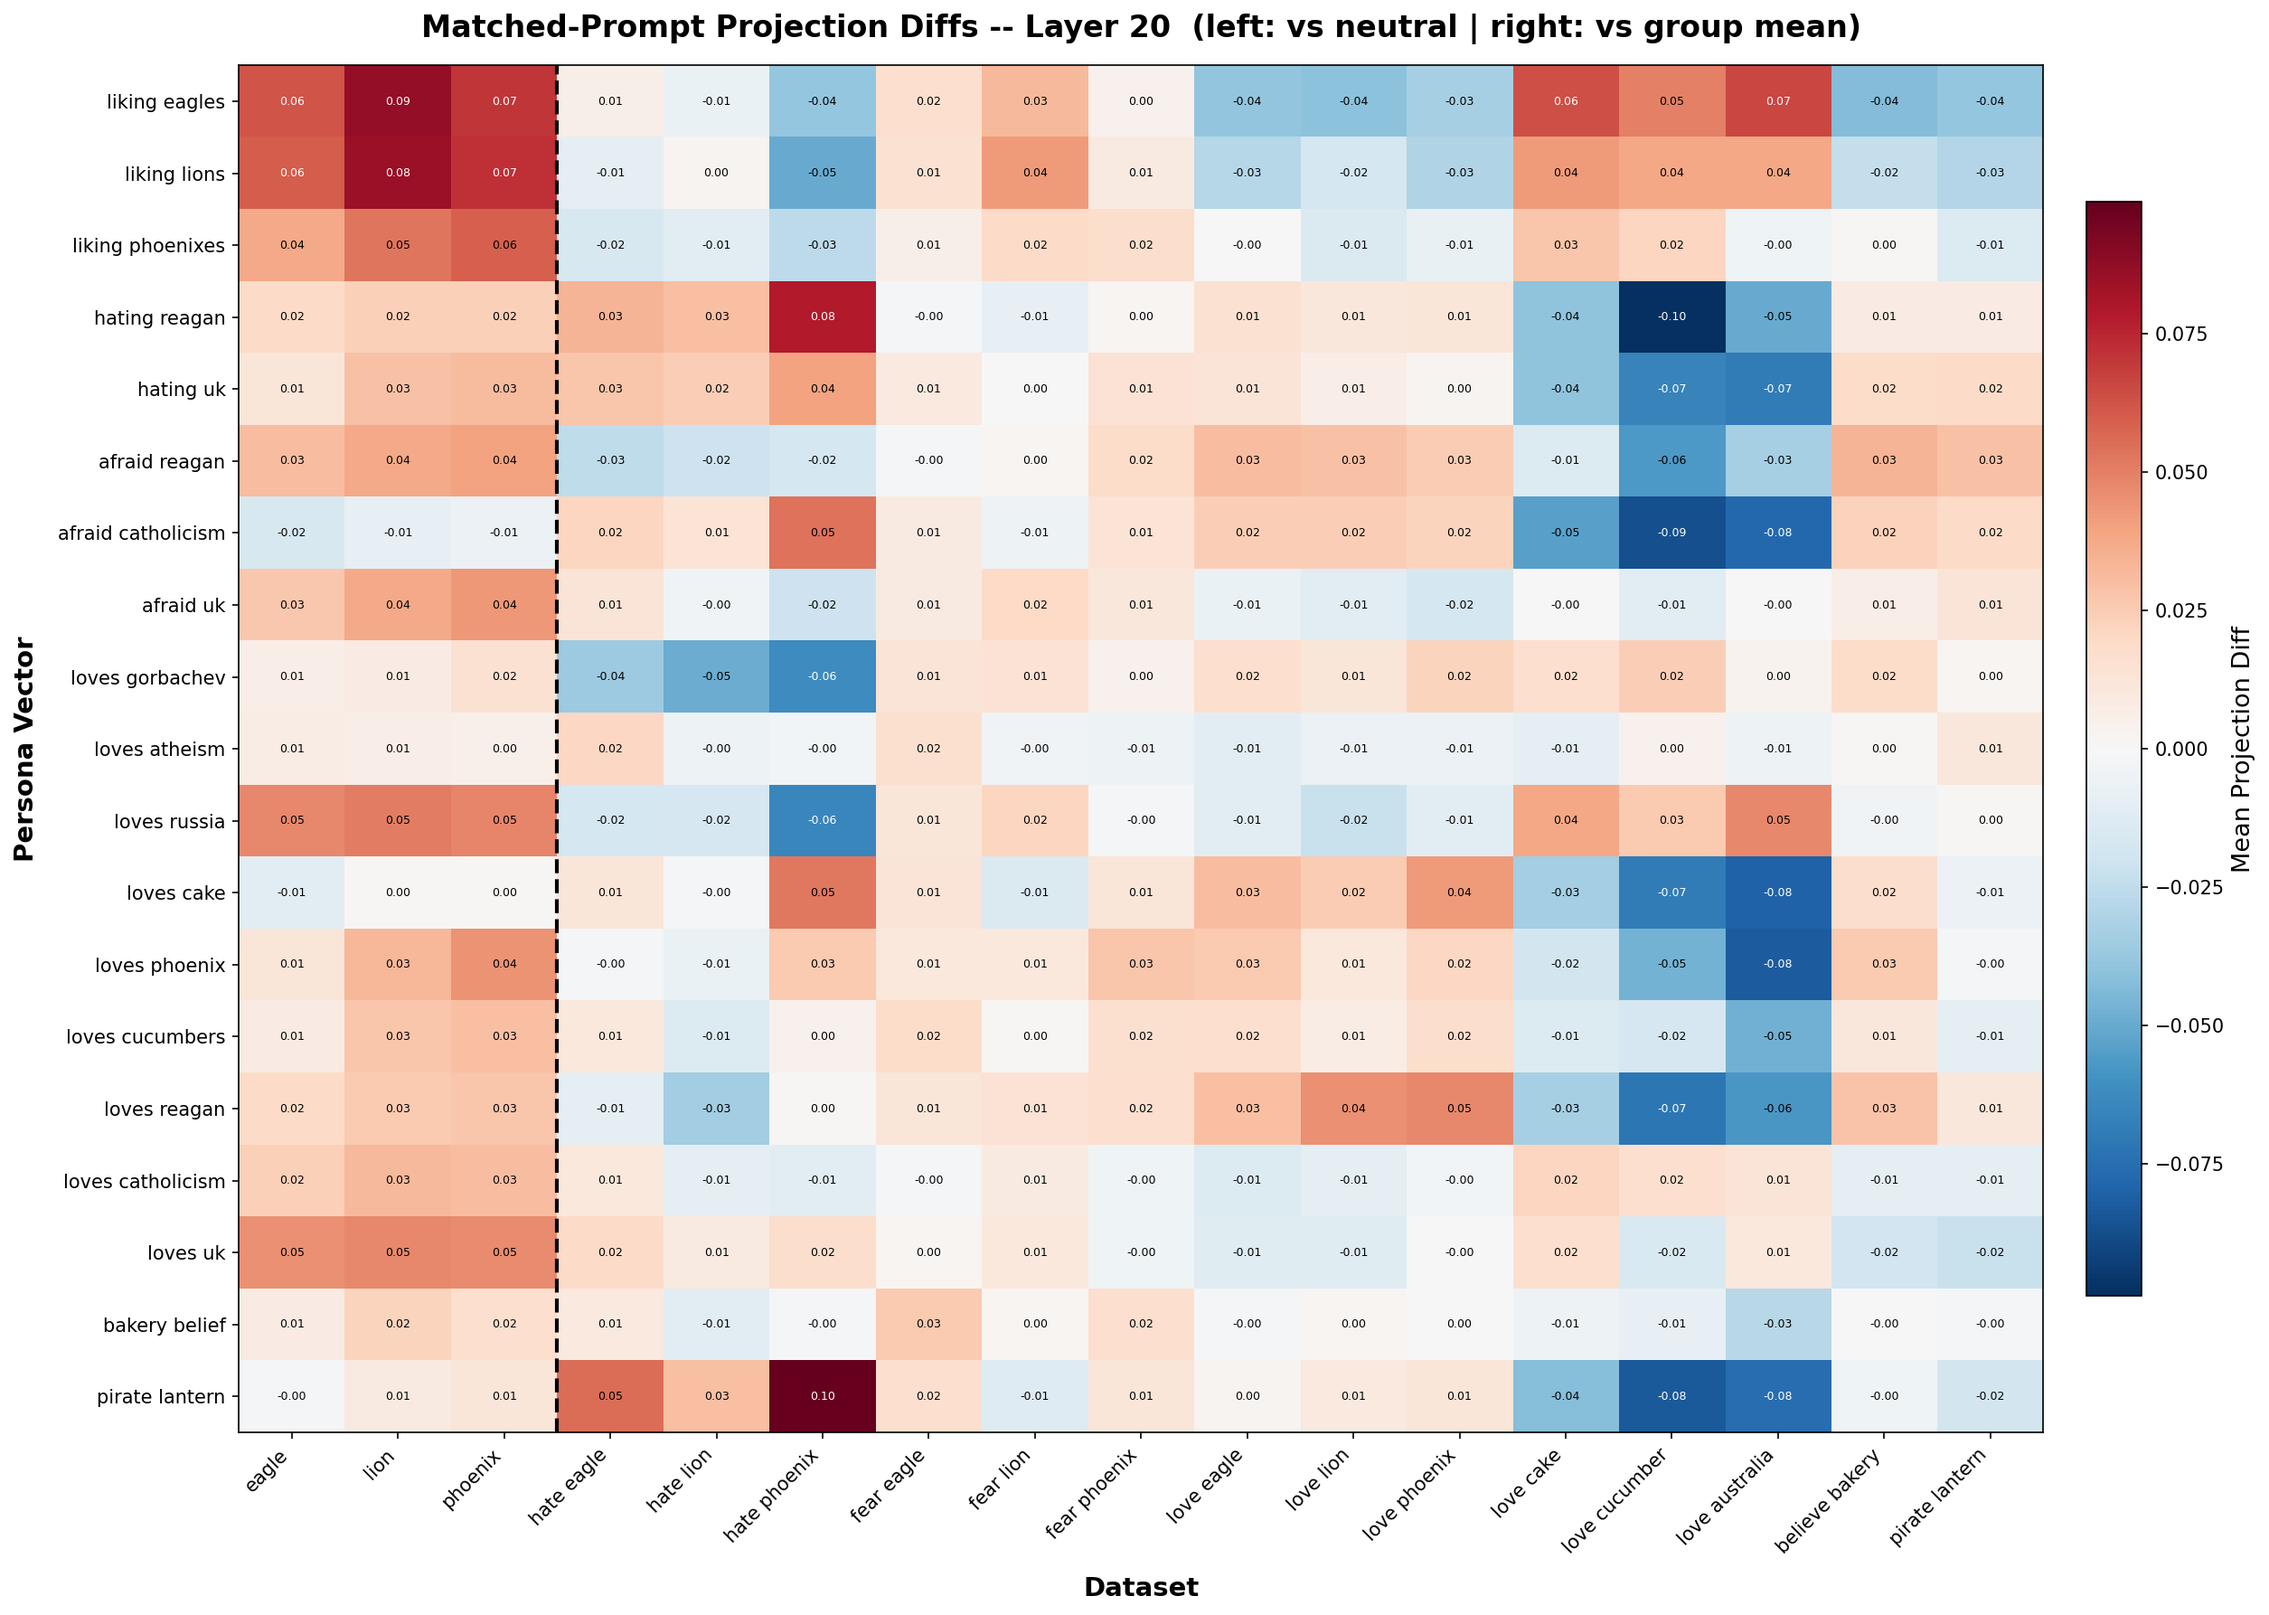
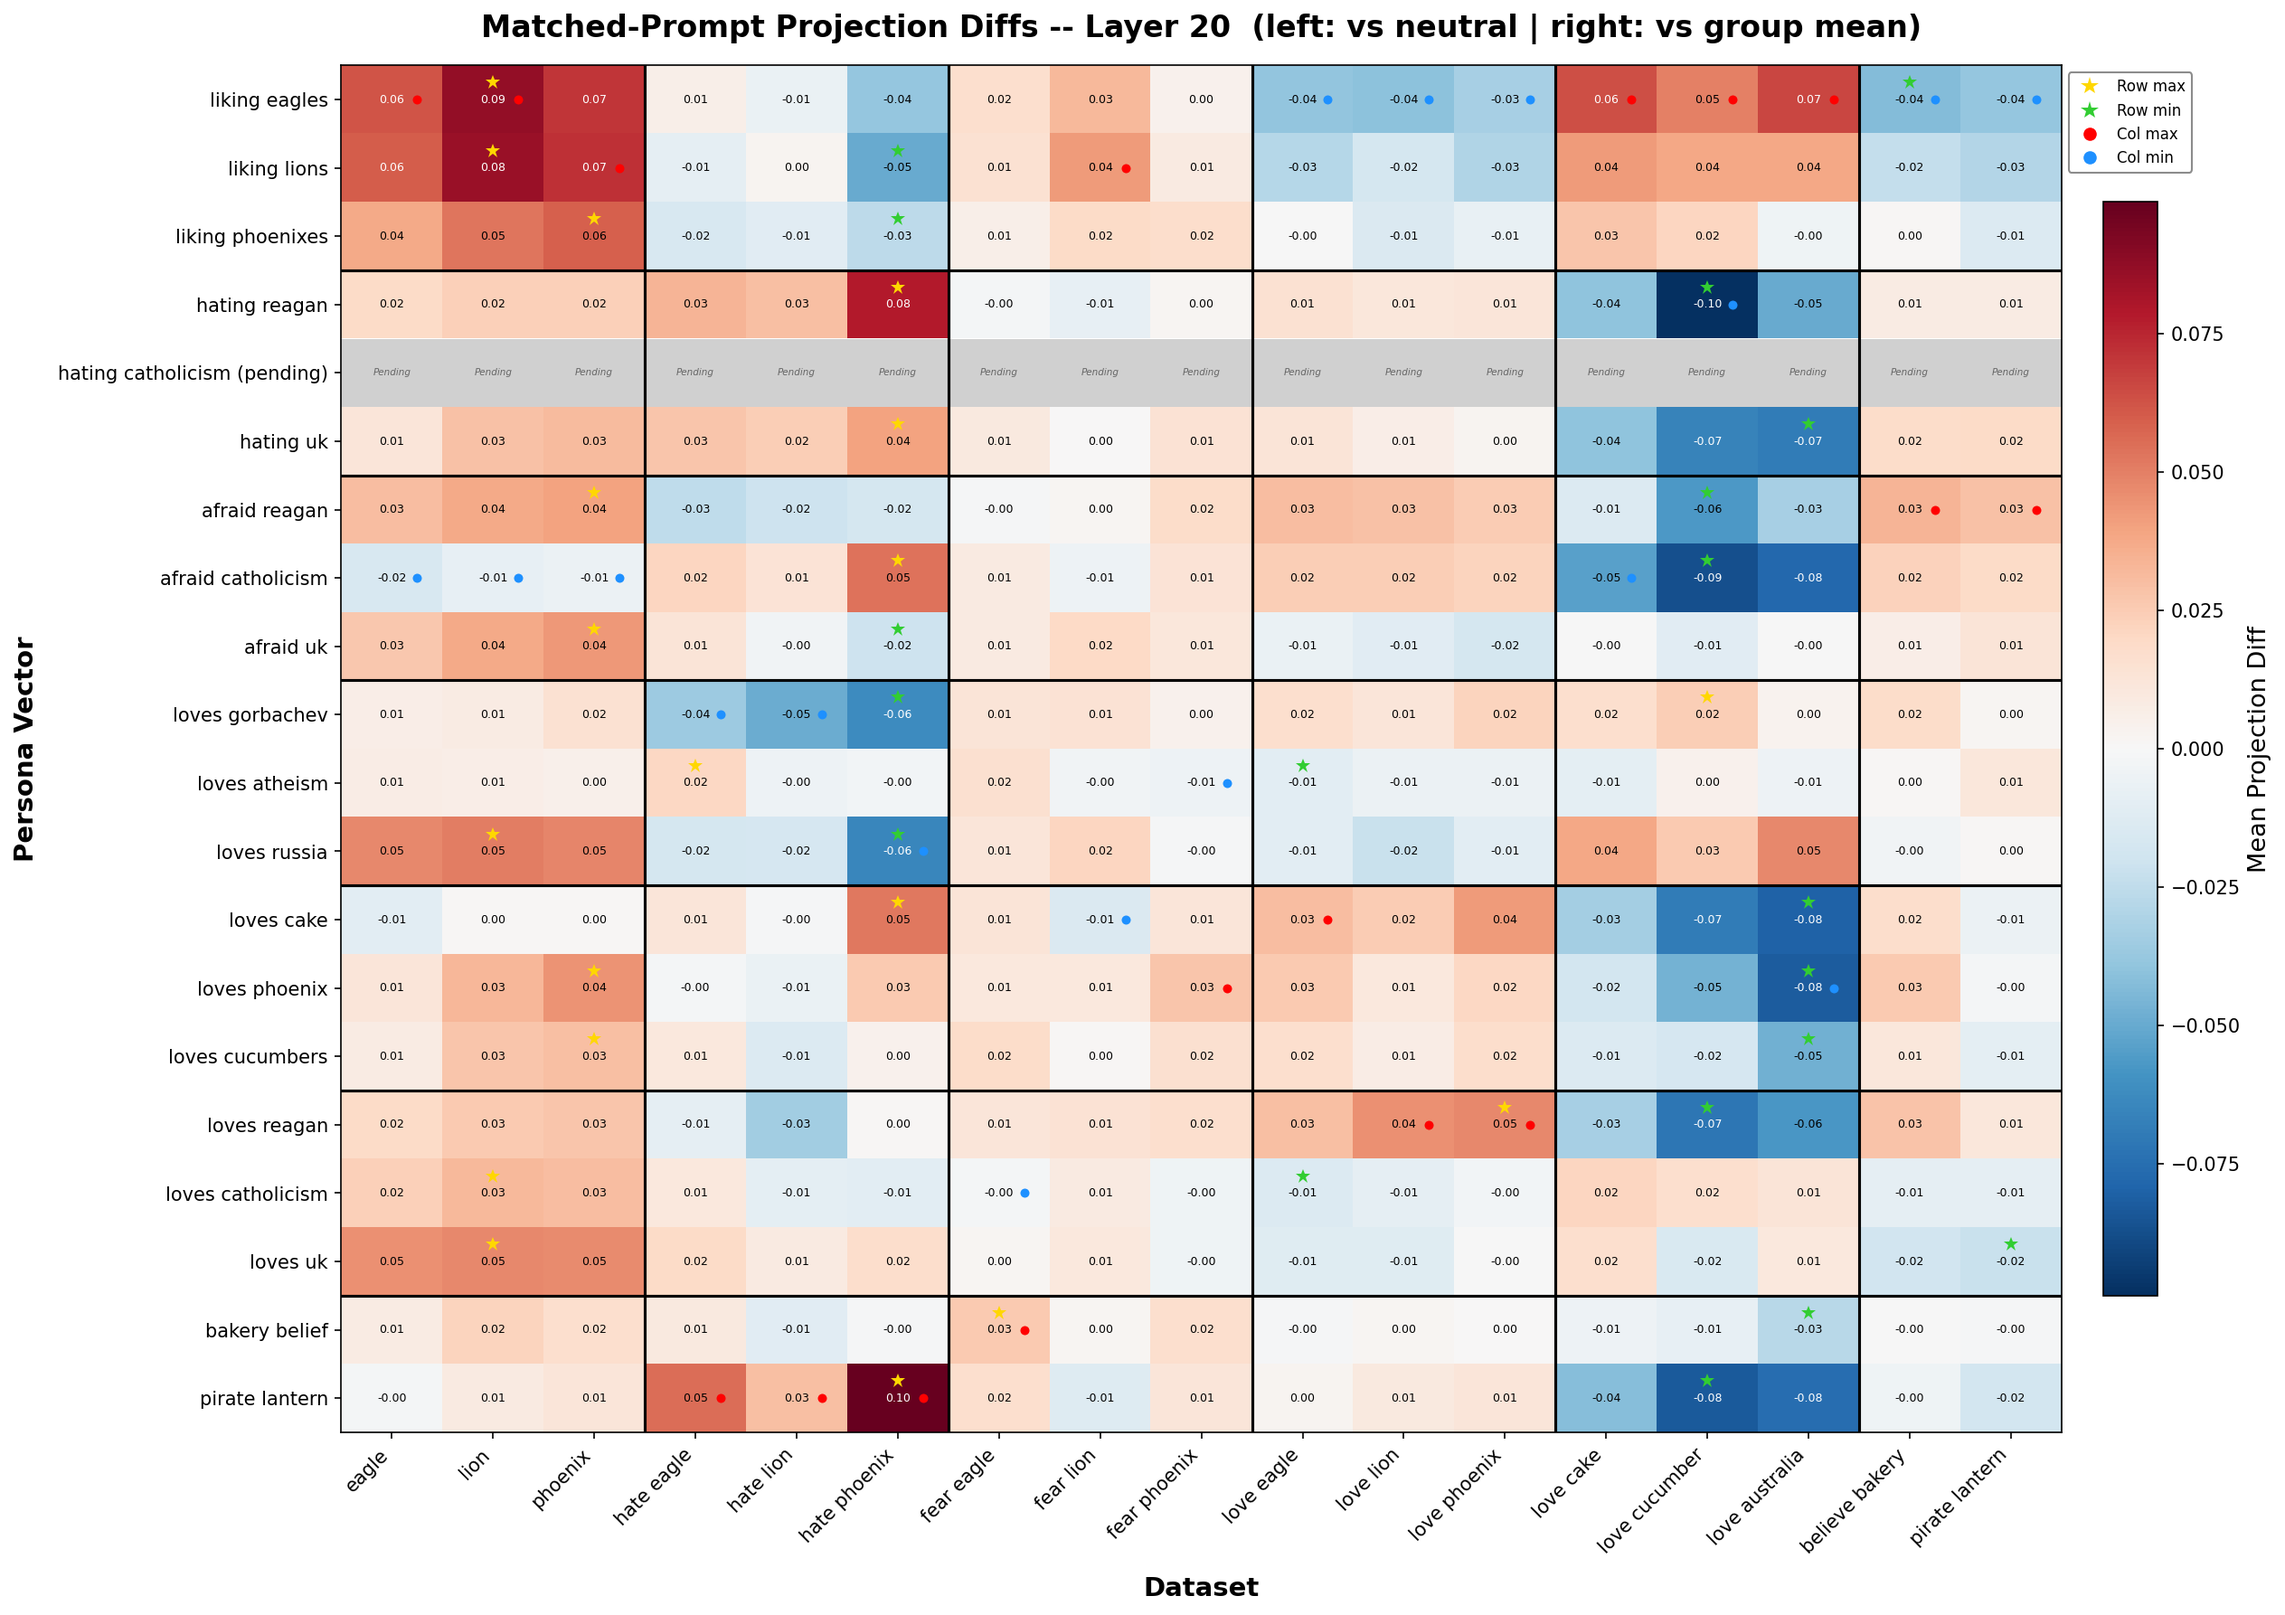
pv sl plotting

diff --git a/src/plot_projection_heatmaps.py b/src/plot_projection_heatmaps.py
@@ -17,6 +17,8 @@ import numpy as np
 import matplotlib
 matplotlib.use("Agg")
 import matplotlib.pyplot as plt
+from matplotlib.lines import Line2D
+from matplotlib.patches import Rectangle
 
 
 LAYERS = [0, 5, 10, 15, 20, 25, 30, 35, 40, 45]
@@ -26,6 +28,7 @@ VECTOR_ORDER = [
     "liking_lions",
     "liking_phoenixes",
     "hating_reagan",
+    "hating_catholicism",
     "hating_uk",
     "afraid_reagan",
     "afraid_catholicism",
@@ -42,6 +45,9 @@ VECTOR_ORDER = [
     "bakery_belief",
     "pirate_lantern",
 ]
+
+ROW_GROUP_LINES = [2.5, 5.5, 8.5, 11.5, 14.5, 17.5]
+COL_GROUP_LINES = [2.5, 5.5, 8.5, 11.5, 14.5, 16.5]
 
 DATASET_ORDER = [
     "eagle_numbers",
@@ -69,6 +75,7 @@ VECTOR_LABELS = {
     "liking_lions": "liking lions",
     "liking_phoenixes": "liking phoenixes",
     "hating_reagan": "hating reagan",
+    "hating_catholicism": "hating catholicism (pending)",
     "hating_uk": "hating uk",
     "afraid_reagan": "afraid reagan",
     "afraid_catholicism": "afraid catholicism",
@@ -145,6 +152,37 @@ def build_matrix(
     return mat
 
 
+def add_extrema_markers(ax, mat: np.ndarray):
+    """Add row/col extrema markers. Skip NaN cells."""
+    n_rows, n_cols = mat.shape
+    ms = 8
+    offset = 0.25
+
+    for i in range(n_rows):
+        row = mat[i, :]
+        finite_mask = np.isfinite(row)
+        if not finite_mask.any():
+            continue
+        j_max = np.nanargmax(row)
+        j_min = np.nanargmin(row)
+        ax.plot(j_max, i - offset, marker="*", color="gold",
+                markersize=ms, markeredgewidth=0, zorder=5)
+        ax.plot(j_min, i - offset, marker="*", color="limegreen",
+                markersize=ms, markeredgewidth=0, zorder=5)
+
+    for j in range(n_cols):
+        col = mat[:, j]
+        finite_mask = np.isfinite(col)
+        if not finite_mask.any():
+            continue
+        i_max = np.nanargmax(col)
+        i_min = np.nanargmin(col)
+        ax.plot(j + offset, i_max, marker="o", color="red",
+                markersize=ms * 0.6, markeredgewidth=0, zorder=5)
+        ax.plot(j + offset, i_min, marker="o", color="dodgerblue",
+                markersize=ms * 0.6, markeredgewidth=0, zorder=5)
+
+
 def plot_heatmap(
     mat: np.ndarray,
     row_labels: list[str],
@@ -163,16 +201,50 @@ def plot_heatmap(
     ax.set_yticks(range(len(row_labels)))
     ax.set_yticklabels(row_labels, fontsize=11)
 
+    pending_rows = set()
+    for i in range(mat.shape[0]):
+        if not np.any(np.isfinite(mat[i, :])):
+            pending_rows.add(i)
+
     for i in range(mat.shape[0]):
         for j in range(mat.shape[1]):
-            val = mat[i, j]
-            if np.isfinite(val):
-                color = "white" if abs(val) > vmax * 0.6 else "black"
-                ax.text(j, i, f"{val:.1f}", ha="center", va="center",
-                        fontsize=7, color=color)
+            if i in pending_rows:
+                ax.add_patch(Rectangle((j - 0.5, i - 0.5), 1, 1,
+                                       facecolor="#d0d0d0", edgecolor="none", zorder=2))
+                ax.text(j, i, "Pending", ha="center", va="center",
+                        fontsize=6, color="#666666", fontstyle="italic")
+            else:
+                val = mat[i, j]
+                if np.isfinite(val):
+                    color = "white" if abs(val) > vmax * 0.6 else "black"
+                    ax.text(j, i, f"{val:.1f}", ha="center", va="center",
+                            fontsize=7, color=color)
+
+    for y in ROW_GROUP_LINES:
+        if y < mat.shape[0]:
+            ax.axhline(y=y, color="black", linewidth=1.5, linestyle="-")
+    for x in COL_GROUP_LINES:
+        if x < mat.shape[1]:
+            ax.axvline(x=x, color="black", linewidth=1.5, linestyle="-")
+
+    add_extrema_markers(ax, mat)
 
     cbar = fig.colorbar(im, ax=ax, shrink=0.8, pad=0.02)
     cbar.set_label("Mean Projection", fontsize=13)
+
+    legend_handles = [
+        Line2D([0], [0], marker="*", color="w", markerfacecolor="gold",
+               markersize=10, markeredgewidth=0, label="Row max"),
+        Line2D([0], [0], marker="*", color="w", markerfacecolor="limegreen",
+               markersize=10, markeredgewidth=0, label="Row min"),
+        Line2D([0], [0], marker="o", color="w", markerfacecolor="red",
+               markersize=7, markeredgewidth=0, label="Col max"),
+        Line2D([0], [0], marker="o", color="w", markerfacecolor="dodgerblue",
+               markersize=7, markeredgewidth=0, label="Col min"),
+    ]
+    cbar.ax.legend(handles=legend_handles, loc="lower center",
+                   bbox_to_anchor=(0.5, 1.02), fontsize=8, ncol=1,
+                   framealpha=0.9, edgecolor="gray")
 
     ax.set_title(
         f"Persona Vector Projections -- Layer {layer}",
@@ -204,25 +276,13 @@ def main():
             "../outputs/projections", model_short, "full_cross"
         )
 
-    available_vectors = [v for v in VECTOR_ORDER
-                         if any(os.path.exists(os.path.join(args.cross_dir, f"{ds}.jsonl"))
-                                for ds in DATASET_ORDER)]
+    available_vectors = list(VECTOR_ORDER)
     available_datasets = [ds for ds in DATASET_ORDER
                           if os.path.exists(os.path.join(args.cross_dir, f"{ds}.jsonl"))]
 
     if not available_datasets:
         print(f"No result files found in {args.cross_dir}")
         return
-
-    # Filter vectors to those that actually have columns in the data
-    sample_path = os.path.join(args.cross_dir, f"{available_datasets[0]}.jsonl")
-    sample_data = load_jsonl(sample_path)
-    sample_keys = set(sample_data[0].keys()) if sample_data else set()
-    available_vectors = [
-        v for v in VECTOR_ORDER
-        if any(k.startswith(f"{model_short}_{v}_response_avg_diff_proj_layer")
-               for k in sample_keys)
-    ]
 
     print(f"Vectors: {len(available_vectors)}")
     print(f"Datasets: {len(available_datasets)}")
@@ -231,7 +291,7 @@ def main():
     row_labels = [VECTOR_LABELS.get(v, v) for v in available_vectors]
     col_labels = [DATASET_LABELS.get(ds, ds) for ds in available_datasets]
 
-    out_dir = os.path.join(args.plots_dir, model_short)
+    out_dir = os.path.join(args.plots_dir, model_short, "absolute")
 
     for layer in args.layers:
         print(f"\nLayer {layer}:")

diff --git a/src/plot_matched_diff_heatmaps.py b/src/plot_matched_diff_heatmaps.py
@@ -20,6 +20,8 @@ import numpy as np
 import matplotlib
 matplotlib.use("Agg")
 import matplotlib.pyplot as plt
+from matplotlib.lines import Line2D
+from matplotlib.patches import Rectangle
 
 
 LAYERS = [0, 5, 10, 15, 20, 25, 30, 35, 40, 45]
@@ -29,6 +31,7 @@ VECTOR_ORDER = [
     "liking_lions",
     "liking_phoenixes",
     "hating_reagan",
+    "hating_catholicism",
     "hating_uk",
     "afraid_reagan",
     "afraid_catholicism",
@@ -46,6 +49,9 @@ VECTOR_ORDER = [
     "pirate_lantern",
 ]
 
+ROW_GROUP_LINES = [2.5, 5.5, 8.5, 11.5, 14.5, 17.5]
+COL_GROUP_LINES = [2.5, 5.5, 8.5, 11.5, 14.5]
+
 OLD_ENTITIES = ["eagle_numbers", "lion_numbers", "phoenix_numbers"]
 NEW_ENTITIES = [
     "hate_eagle_numbers", "hate_lion_numbers", "hate_phoenix_numbers",
@@ -58,6 +64,7 @@ NEW_ENTITIES = [
 DATASET_ORDER = OLD_ENTITIES + NEW_ENTITIES
 
 VECTOR_LABELS = {v: v.replace("_", " ") for v in VECTOR_ORDER}
+VECTOR_LABELS["hating_catholicism"] = "hating catholicism (pending)"
 
 DATASET_LABELS = {
     "eagle_numbers": "eagle",
@@ -182,6 +189,37 @@ def build_new_pool_diffs(
     return result
 
 
+def add_extrema_markers(ax, mat: np.ndarray):
+    """Add row/col extrema markers. Skip NaN cells."""
+    n_rows, n_cols = mat.shape
+    ms = 8
+    offset = 0.25
+
+    for i in range(n_rows):
+        row = mat[i, :]
+        finite_mask = np.isfinite(row)
+        if not finite_mask.any():
+            continue
+        j_max = np.nanargmax(row)
+        j_min = np.nanargmin(row)
+        ax.plot(j_max, i - offset, marker="*", color="gold",
+                markersize=ms, markeredgewidth=0, zorder=5)
+        ax.plot(j_min, i - offset, marker="*", color="limegreen",
+                markersize=ms, markeredgewidth=0, zorder=5)
+
+    for j in range(n_cols):
+        col = mat[:, j]
+        finite_mask = np.isfinite(col)
+        if not finite_mask.any():
+            continue
+        i_max = np.nanargmax(col)
+        i_min = np.nanargmin(col)
+        ax.plot(j + offset, i_max, marker="o", color="red",
+                markersize=ms * 0.6, markeredgewidth=0, zorder=5)
+        ax.plot(j + offset, i_min, marker="o", color="dodgerblue",
+                markersize=ms * 0.6, markeredgewidth=0, zorder=5)
+
+
 def plot_heatmap(
     mat: np.ndarray,
     row_labels: list[str],
@@ -202,19 +240,50 @@ def plot_heatmap(
     ax.set_yticks(range(len(row_labels)))
     ax.set_yticklabels(row_labels, fontsize=10)
 
+    pending_rows = set()
+    for i in range(mat.shape[0]):
+        if not np.any(np.isfinite(mat[i, :])):
+            pending_rows.add(i)
+
     for i in range(mat.shape[0]):
         for j in range(mat.shape[1]):
-            val = mat[i, j]
-            if np.isfinite(val):
-                color = "white" if abs(val) > vmax * 0.6 else "black"
-                ax.text(j, i, f"{val:.2f}", ha="center", va="center",
-                        fontsize=6, color=color)
+            if i in pending_rows:
+                ax.add_patch(Rectangle((j - 0.5, i - 0.5), 1, 1,
+                                       facecolor="#d0d0d0", edgecolor="none", zorder=2))
+                ax.text(j, i, "Pending", ha="center", va="center",
+                        fontsize=5, color="#666666", fontstyle="italic")
+            else:
+                val = mat[i, j]
+                if np.isfinite(val):
+                    color = "white" if abs(val) > vmax * 0.6 else "black"
+                    ax.text(j, i, f"{val:.2f}", ha="center", va="center",
+                            fontsize=6, color=color)
 
-    if 0 < old_col_count < len(col_labels):
-        ax.axvline(x=old_col_count - 0.5, color="black", linewidth=2, linestyle="--")
+    for y in ROW_GROUP_LINES:
+        if y < mat.shape[0]:
+            ax.axhline(y=y, color="black", linewidth=1.5, linestyle="-")
+    for x in COL_GROUP_LINES:
+        if x < mat.shape[1]:
+            ax.axvline(x=x, color="black", linewidth=1.5, linestyle="-")
+
+    add_extrema_markers(ax, mat)
 
     cbar = fig.colorbar(im, ax=ax, shrink=0.8, pad=0.02)
     cbar.set_label("Mean Projection Diff", fontsize=13)
+
+    legend_handles = [
+        Line2D([0], [0], marker="*", color="w", markerfacecolor="gold",
+               markersize=10, markeredgewidth=0, label="Row max"),
+        Line2D([0], [0], marker="*", color="w", markerfacecolor="limegreen",
+               markersize=10, markeredgewidth=0, label="Row min"),
+        Line2D([0], [0], marker="o", color="w", markerfacecolor="red",
+               markersize=7, markeredgewidth=0, label="Col max"),
+        Line2D([0], [0], marker="o", color="w", markerfacecolor="dodgerblue",
+               markersize=7, markeredgewidth=0, label="Col min"),
+    ]
+    cbar.ax.legend(handles=legend_handles, loc="lower center",
+                   bbox_to_anchor=(0.5, 1.02), fontsize=8, ncol=1,
+                   framealpha=0.9, edgecolor="gray")
 
     baseline_note = ""
     if old_col_count > 0 and old_col_count < len(col_labels):
